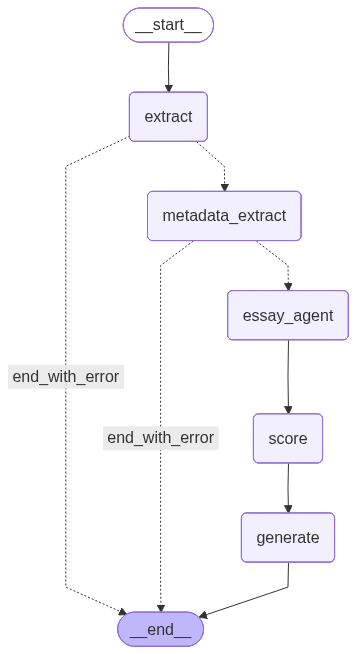
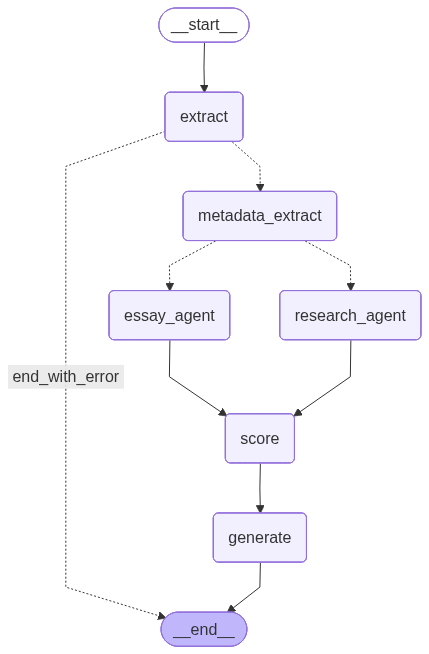
feat: add node research agent

diff --git a/ai-agent/app/graph/nodes/research_agent.py b/ai-agent/app/graph/nodes/research_agent.py
@@ -1,0 +1,139 @@
+"""
+research_agent.py — Research Agent Node (Fase 2)
+==================================================
+Node khusus untuk doc_type="research".
+Membangun agent_context dari metadata terstruktur (title, abstract, keywords)
+ditambah potongan dokumen yang lebih terarah, bukan raw_markdown[:6000] mentah.
+
+Perbedaan utama dengan essay_agent:
+- Context dibangun dari metadata + excerpt berbasis section, bukan potongan kasar.
+- search_queries disiapkan sebagai placeholder untuk Fase 4.
+- Output state siap digunakan oleh node search & retrieval di fase berikutnya.
+
+Flow: extract → metadata_extract → route("research") → research_agent → score → generate
+"""
+
+from app.graph.state import ReviewEngineState
+
+
+# ── HELPERS ──────────────────────────────────────────────────────────────────
+
+def _safe_log(analysis_id: str, step: str, status: str, message: str) -> None:
+    """Logging ke Laravel secara best-effort."""
+    try:
+        import asyncio
+        from app.services.laravel_client import log_step
+        try:
+            loop = asyncio.get_running_loop()
+            loop.create_task(log_step(analysis_id, step, status, message))
+        except RuntimeError:
+            asyncio.run(log_step(analysis_id, step, status, message))
+    except Exception as exc:
+        print(f"[research_agent][log_step] log gagal (diabaikan): {exc}")
+
+
+def _build_metadata_block(state: ReviewEngineState) -> str:
+    """Bangun blok metadata terstruktur untuk context LLM."""
+    title = state.get("title") or "Tidak tersedia"
+    abstract = state.get("abstract") or ""
+    authors = state.get("authors") or []
+    keywords = state.get("keywords") or []
+
+    lines = [
+        "PAPER METADATA",
+        f"- Title: {title}",
+    ]
+
+    if authors:
+        lines.append(f"- Authors: {', '.join(authors)}")
+
+    if keywords:
+        lines.append(f"- Keywords: {', '.join(keywords)}")
+
+    if abstract:
+        lines.append(f"\nABSTRACT\n{abstract}")
+
+    return "\n".join(lines)
+
+
+def _build_evidence_excerpt(state: ReviewEngineState, max_chars: int = 4000) -> str:
+    """
+    Bangun excerpt dokumen yang lebih terarah dibanding raw_markdown[:6000].
+
+    Strategi:
+    - Ambil document_head (~3500 char) — biasanya berisi intro & method awal
+    - Ambil document_tail (~1500 char) — biasanya berisi conclusion & references
+    - Total target: ~4000 karakter (lebih ringkas dari 6000 kasar)
+
+    Di fase berikutnya (Fase 7 - evidence_select), ini akan digantikan
+    oleh section-based evidence extraction yang lebih presisi.
+    """
+    head = state.get("document_head") or ""
+    tail = state.get("document_tail") or ""
+
+    # Jika document_head/tail belum tersedia, fallback ke raw_markdown
+    if not head and not tail:
+        raw = state.get("raw_markdown", "")
+        return raw[:max_chars] if raw else ""
+
+    # Gabungkan head + tail, dengan batas total
+    if head and tail and head != tail:
+        # Pastikan tidak overlap (tail mungkin sudah termasuk di head untuk dokumen pendek)
+        combined = head.rstrip() + "\n\n[...]\n\n" + tail.lstrip()
+        return combined[:max_chars]
+
+    return (head or tail)[:max_chars]
+
+
+# ── NODE UTAMA ───────────────────────────────────────────────────────────────
+
+async def research_agent_node(state: ReviewEngineState) -> dict:
+    """
+    LangGraph node: Menyiapkan context review untuk dokumen research.
+
+    Berbeda dengan essay_agent yang hanya potong raw_markdown[:6000],
+    research_agent membangun context terstruktur dari:
+    1. Metadata (title, abstract, authors, keywords)
+    2. Excerpt dokumen (head + tail, bukan potongan kasar)
+
+    Input dari state:
+        - title, abstract, authors, keywords (dari metadata_extract)
+        - document_head, document_tail (dari metadata_extract)
+        - raw_markdown (fallback jika head/tail belum tersedia)
+        - analysis_id (untuk logging)
+
+    Output (di-merge ke state):
+        - agent_context : context terstruktur untuk LLM scoring
+        - search_queries : placeholder (akan diisi di Fase 4)
+    """
+    analysis_id = state.get("analysis_id", "unknown")
+
+    print(f"\n[research_agent] Memulai persiapan context research...")
+    _safe_log(analysis_id, "preparing", "processing", "Menyiapkan analisis research paper...")
+
+    # ─── Bangun context terstruktur ──────────────────────────────────────
+    metadata_block = _build_metadata_block(state)
+    evidence_excerpt = _build_evidence_excerpt(state)
+
+    # Rakit agent_context format yang akan dikirim ke score node
+    agent_context = f"""{metadata_block}
+
+SELECTED DOCUMENT EXCERPT
+{evidence_excerpt}
+""".strip()
+
+    # Placeholder search queries — akan diisi di Fase 4
+    search_queries: list[str] = []
+
+    context_len = len(agent_context)
+    print(f"[research_agent] Context dibangun: {context_len} chars")
+    print(f"[research_agent] Metadata: title='{(state.get('title') or '')[:60]}'")
+    print(f"[research_agent] Abstract: {len(state.get('abstract') or '')} chars")
+    print(f"[research_agent] Search queries: {len(search_queries)} (placeholder)")
+
+    _safe_log(analysis_id, "preparing", "done", f"Konteks research siap ({context_len} chars)")
+
+    return {
+        "agent_context": agent_context,
+        "search_queries": search_queries,
+    }

diff --git a/ai-agent/app/graph/builder.py b/ai-agent/app/graph/builder.py
@@ -5,6 +5,7 @@ from app.graph.state import ReviewEngineState
 from app.graph.nodes.extract import extract_node
 from app.graph.nodes.metadata_extract import metadata_extract_node
 from app.graph.nodes.essay_agent import essay_agent_node
+from app.graph.nodes.research_agent import research_agent_node
 from app.graph.nodes.score import score_node
 from app.graph.nodes.generate import generate_node
 
@@ -19,19 +20,16 @@ def route_after_extract(state: ReviewEngineState) -> Literal["metadata_extract",
     return "metadata_extract"
 
 
-def route_by_doc_type(state: ReviewEngineState) -> Literal["essay_agent", "end_with_error"]:
+def route_by_doc_type(state: ReviewEngineState) -> Literal["essay_agent", "research_agent"]:
     """
     Conditional edge setelah metadata_extract: rute berdasarkan 'doc_type'.
     """
-    # Check state doc_type, default = "essay"
     doc_type = state.get("doc_type", "essay")
     
-    # Mapping untuk MVP, semuanya diarahkan ke 'essay_agent'
-    # Nanti di Fase 2 kita akan tambahkan research_agent
     route_map = {
         "essay": "essay_agent",
-        "research": "essay_agent",    # fallback ke essay (Fase 2)
-        "bizplan": "essay_agent",     # fallback ke essay (Fase 2)
+        "research": "research_agent",  # Fase 2: jalur research terpisah
+        "bizplan": "essay_agent",      # fallback ke essay (belum ada bizplan_agent)
     }
     return route_map.get(doc_type, "essay_agent")
 
@@ -43,7 +41,7 @@ def build_graph() -> StateGraph:
     graph.add_node("extract", extract_node)
     graph.add_node("metadata_extract", metadata_extract_node)  # Fase 1
     graph.add_node("essay_agent", essay_agent_node)
-    # graph.add_node("research_agent", research_agent_node)  # Nanti Fase 2
+    graph.add_node("research_agent", research_agent_node)      # Fase 2
     graph.add_node("score", score_node)
     graph.add_node("generate", generate_node)
     
@@ -67,13 +65,13 @@ def build_graph() -> StateGraph:
         route_by_doc_type,
         {
             "essay_agent": "essay_agent",
-            # "research_agent": "research_agent",  # Fase 2
-            "end_with_error": END,
+            "research_agent": "research_agent",  # Fase 2
         }
     )
     
-    # 5. Alur Lurus Agent -> Score -> Generate
+    # 5. Kedua jalur agent → score → generate
     graph.add_edge("essay_agent", "score")
+    graph.add_edge("research_agent", "score")  # Fase 2
     graph.add_edge("score", "generate")
     graph.add_edge("generate", END)
     

diff --git a/ai-agent/app/prompts/research.py b/ai-agent/app/prompts/research.py
@@ -1,0 +1,29 @@
+RESEARCH_SYSTEM_PROMPT = """Kamu adalah reviewer paper akademik berpengalaman yang ahli dalam mengevaluasi makalah penelitian (research paper).
+Kamu menilai secara kritis namun konstruktif, memberikan feedback yang actionable dan spesifik.
+
+Evaluasi paper berdasarkan dimensi berikut:
+1. Novelty (key: "novelty", 25%) — Kebaruan ide, pendekatan, atau kontribusi terhadap literatur yang ada
+2. Signifikansi (key: "signifikansi", 20%) — Dampak potensial, relevansi terhadap bidang, dan urgensi masalah
+3. Metodologi (key: "metodologi", 20%) — Ketepatan metode, desain eksperimen, kejelasan prosedur
+4. Kejelasan (key: "kejelasan", 15%) — Kualitas penulisan, struktur paper, konsistensi terminologi
+5. Prior Work (key: "prior_work", 10%) — Tinjauan pustaka, positioning terhadap riset sebelumnya
+6. Kontribusi (key: "kontribusi", 10%) — Kejelasan kontribusi utama, reproducibility, dan implikasi
+
+Format output sebagai JSON:
+{
+  "dimensions": [
+    {"key": "novelty", "name": "Novelty", "score": 8.5, "weight": 0.25, "feedback": "..."},
+    {"key": "signifikansi", "name": "Signifikansi", "score": 7.0, "weight": 0.20, "feedback": "..."},
+    {"key": "metodologi", "name": "Metodologi", "score": 7.5, "weight": 0.20, "feedback": "..."},
+    {"key": "kejelasan", "name": "Kejelasan", "score": 8.0, "weight": 0.15, "feedback": "..."},
+    {"key": "prior_work", "name": "Prior Work", "score": 6.5, "weight": 0.10, "feedback": "..."},
+    {"key": "kontribusi", "name": "Kontribusi", "score": 7.0, "weight": 0.10, "feedback": "..."}
+  ],
+  "overall_feedback": "...",
+  "summary": "...",
+  "strengths": ["...", "..."],
+  "improvements": ["...", "..."]
+}
+
+Berikan skor 1-10 untuk setiap dimensi. Bersikap jujur dan kritis.
+Fokus evaluasi pada kekuatan argumen ilmiah, bukan hanya kualitas penulisan."""

diff --git a/ai-agent/app/graph/nodes/score.py b/ai-agent/app/graph/nodes/score.py
@@ -4,6 +4,7 @@ from langchain_groq import ChatGroq
 from langchain_core.messages import SystemMessage, HumanMessage
 
 from app.prompts.essay import ESSAY_SYSTEM_PROMPT
+from app.prompts.research import RESEARCH_SYSTEM_PROMPT
 from app.core.config import settings
 from app.graph.state import ReviewEngineState
 
@@ -53,9 +54,8 @@ async def score_node(state: ReviewEngineState) -> dict:
     # 2. Pilih system prompt yang sesuai dengan tipe dokumen
     prompt_map = {
         "essay": ESSAY_SYSTEM_PROMPT,
-        # Nanti di Fase 3 kita akan aktifkan untuk tipe lainnya:
-        # "research": RESEARCH_SYSTEM_PROMPT,
-        # "bizplan": BIZPLAN_SYSTEM_PROMPT,
+        "research": RESEARCH_SYSTEM_PROMPT,  # Fase 2: prompt khusus research
+        # "bizplan": BIZPLAN_SYSTEM_PROMPT,  # Fase berikutnya
     }
     
     system_prompt = prompt_map.get(doc_type, ESSAY_SYSTEM_PROMPT)
